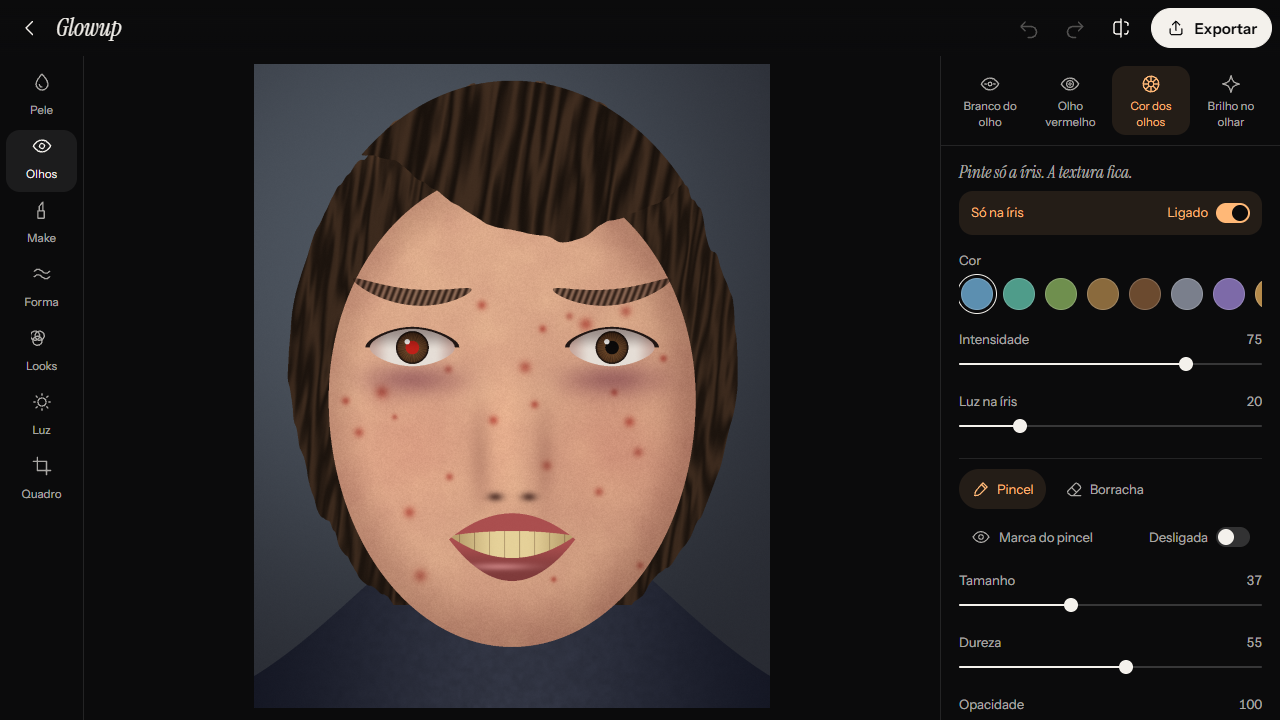
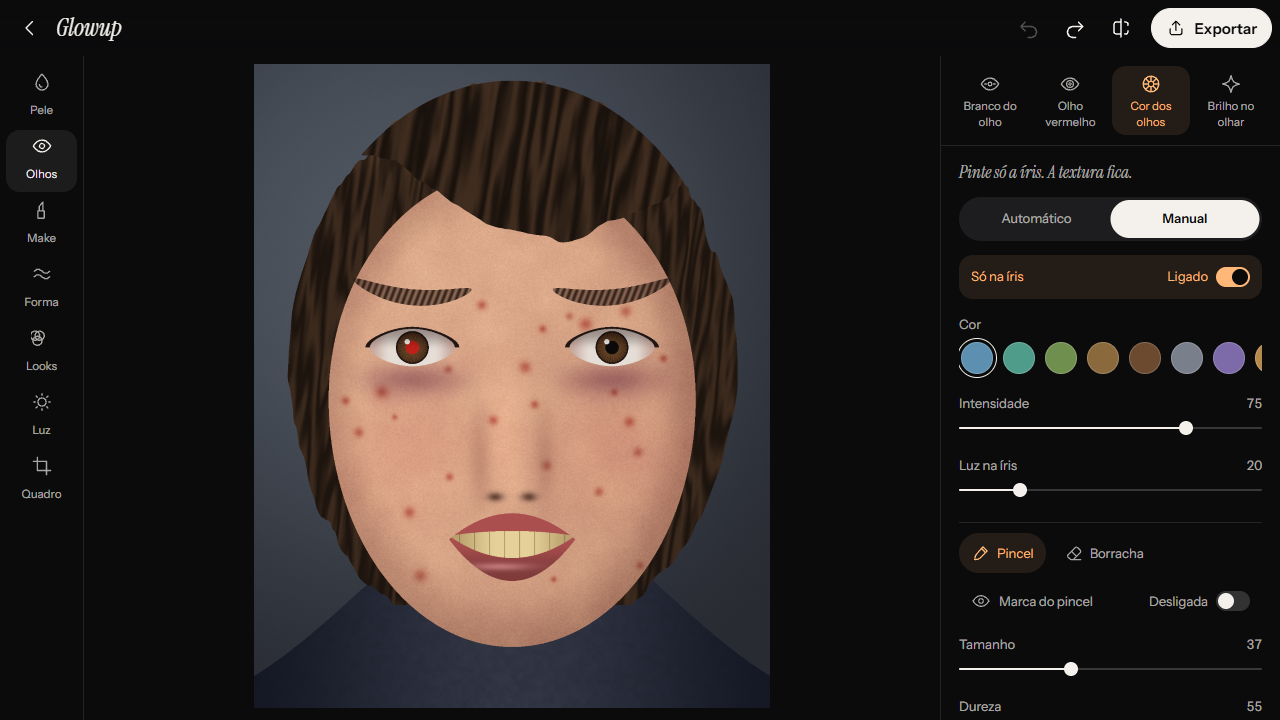
docs: record region focus, reach light and automatic mode
Decisions 64 to 73, design notes, measures and new visual checks for
the flight to the eyes or mouth, the light over the brush reach and
the automatic and manual modes. Panel screenshots of eye and teeth
tools now show the mode selector.

diff --git a/docs/DECISIONS.md b/docs/DECISIONS.md
@@ -106,3 +106,18 @@ Medido em 9 fotos reais de domínio público, fora do repositório, com 99 rosto
 | 61 | Íris é o círculo dos 4 pontos do modelo, cortado pelo contorno do olho com folga de 12%. Branco do olho é o contorno menos a íris | Certo em 59 de 65 rostos. Erraram 6: dois com a cabeça inclinada, um atrás de óculos com os olhos fechados, os outros olhando para cima ou para baixo. Sem filtro de borda: a pálpebra já corta o círculo. |
 | 62 | Dentes são o contorno interno dos lábios levado 40% rumo ao externo, com a borda puxada pela foto e cortada pelo externo. Abertura abaixo de 5% da largura é boca fechada | O contorno interno sozinho deixou mais de 20% dos dentes de fora em 9 de 45 sorrisos. Com 40% foram 5, em medida aproximada por brilho e cor, e o guided filter tira de volta o que passou para o lábio. As 31 bocas com abertura abaixo de 3% não mostram dentes nas 20 que deu para olhar. Em rosto pequeno de foto antiga, com bigode, o modelo chega a ver boca aberta onde não há dente: a região abre à toa, sem prejuízo, porque o shader deixa o escuro como está. |
 | 63 | Todo caminho sem limite deixa o pincel livre e diz por quê | Sem rosto, sem olhos ou dentes à mostra, download que falha e interruptor desligado. O detector perde perfil, rosto olhando para baixo e rosto pequeno, e isso não pode prender ninguém. "Procurar mais rostos" só aparece depois de um traço cair todo fora. Anel falso em mão ou joelho só abre uma região a mais, sem prejuízo. |
+
+## Foco, brilho e modo automático
+
+| # | Decisão | Motivo |
+| --- | --- | --- |
+| 64 | Quando a região fica pronta, a vista voa até os olhos, ou até a boca em Dentes, em 650 ms | Olho e dente são pequenos na foto inteira, e a pessoa ia dar zoom de qualquer jeito. O voo usa a matemática de `view.ts` sobre os pontos já passados por recorte, giro e liquify, então chega ao lugar certo em foto girada ou deformada. O zoom cresce em ritmo constante e o centro anda junto, para não parecer que a foto escorrega. |
+| 65 | Com vários rostos, a vista mostra todos se isso ainda aproximar 1,6 vez ou mais, ou custar menos de 40% do zoom de um rosto só. Senão vai para o maior rosto | Duas pessoas numa selfie cabem juntas e ficam grandes. Numa foto de grupo, todos os olhos juntos são a foto inteira, e aproximar o maior rosto é o que dá para retocar. Rosto cortado pelo recorte fica de fora da conta. |
+| 66 | O voo nunca briga com a pessoa | Qualquer roda, pinça, arrasto, tecla de zoom ou toque na foto para o voo onde ele está. Se a pessoa mexeu na vista durante a busca, o voo nem começa. Se a região já está na tela com zoom parecido, a vista fica. Com movimento reduzido, a vista salta direto. |
+| 67 | Um brilho frio de 1,1 s mostra os pixels que o pincel alcança, com borda clara e uma faixa que atravessa a tela | Explica para que serve o interruptor sem texto longo. A luz é somada e não misturada, para não parecer cor nova na íris, e é fria para não ser confundida com a marca laranja. Toca na primeira vez que a ferramenta fica pronta na foto e sempre que o interruptor liga. Com movimento reduzido fica só o acender e apagar, sem a faixa. |
+| 68 | O brilho mora só no passo que desenha a tela, lendo a textura do limite | A exportação usa outro shader e nem vê o brilho. Lido na mesma posição deformada da marca do pincel, ele acompanha o liquify. Fora dos 1,1 s o ramo do shader não roda. |
+| 69 | Um aviso "O brilho mostra onde o pincel alcança" fica 2,6 s, mais que o brilho | Tempo de ler a frase. Some se a marca do pincel estiver ligada, para não haver dois avisos no mesmo lugar. |
+| 70 | "Automático \| Manual" no topo do painel. O Automático vem ligado e aplica sozinho, depois do voo e do brilho | Escolha de quem usa, entre aplicar sozinho, esperar um toque em "Aplicar" e manter o Manual como padrão. Aplicar depois de mostrar a região faz a pessoa ver onde a foto mudou. Um seletor de dois lados deixa claro de onde vem a máscara, melhor que um interruptor que só revela o pincel. |
+| 71 | O Automático preenche a máscara da ferramenta com a mesma forma do limite, em uma etapa "Automático" no desfazer | A máscara fica igual a uma pintada à mão: sliders, comparar, exportar, receitas e projeto salvo não mudam, e nenhum ponto do rosto vai para o projeto. No Automático o pincel some e arrastar move a foto. Desfazer ou "Tirar o efeito" deixam "Aplicar de novo". |
+| 72 | Manual parte do que o Automático fez, com pincel, borracha e o interruptor de limite. Voltar ao Automático troca a máscara pela região, também em uma etapa | Refinar o automático com a borracha é o uso mais comum. Trocar a máscara inteira ao voltar é previsível, e o desfazer devolve o trabalho à mão. |
+| 73 | O modo fica guardado por ferramenta enquanto a foto está aberta. Máscara que já tem trabalho, como num projeto reaberto, abre no Manual | O Automático nunca apaga trabalho que a pessoa não viu acontecer. Sem rosto, sem região ou sem detector, o seletor não aparece e o pincel fica, como antes. |

diff --git a/docs/PLAN.md b/docs/PLAN.md
@@ -87,6 +87,13 @@
 - [x] Pincel livre sem rosto, sem região, sem detector ou pelo interruptor
 - [x] Nada do rosto no projeto salvo
 
+## M13. Foco, brilho e modo automático
+
+- [x] Voo animado até os olhos ou a boca, com escolha entre todos os rostos e o maior
+- [x] Voo que cede a qualquer gesto, respeita movimento reduzido, recorte, giro e liquify
+- [x] Brilho sobre o alcance do pincel, fora da exportação e diferente da marca do pincel
+- [x] Automático e Manual, com o automático aplicado numa etapa e a máscara salva como pintada
+
 ## Metas medidas
 
 Foto gerada de 12 MP (4000 x 3000), Chromium com aceleração, em uma placa dedicada (`node scripts/perf.mjs`):
@@ -163,3 +170,19 @@ gzip, e o detector continua fora do precache.
 A cobertura dos dentes usa uma estimativa por brilho e cor, não um contorno feito à mão. Rosto muito virado
 leva o contorno do olho mais distante para fora do lugar. Isto também é teste de fumaça, com poucas fotos e
 poucos tons de pele.
+
+### Foco, brilho e modo automático
+
+SwiftShader no e2e, retrato procedural de 1500 x 1875, tela de 1280 x 800.
+
+| O que foi medido | Resultado |
+| --- | --- |
+| Zoom de chegada, olhos | 1,9 vez, com os dois olhos em 60% da largura livre |
+| Zoom de chegada, Dentes | 4,0 vezes |
+| Foto com dois rostos que ocupam a foto inteira | vai para um rosto, 2,3 vezes |
+| Voo e brilho | 650 ms e 1,1 s, aviso por 2,6 s |
+| JS da primeira visita em gzip | 27,2 KB, eram 27,3 KB |
+| Chunk do editor em gzip | 37,4 KB, eram 34,8 KB |
+
+O brilho custa uma leitura de textura a mais por pixel, só enquanto toca. O detector continua fora do
+precache e só baixa quando uma ferramenta de olhos ou dentes abre.

diff --git a/docs/DESIGN.md b/docs/DESIGN.md
@@ -122,6 +122,18 @@ rostos achados.
   interruptor e "Procurar mais rostos" aparece, para o rosto que a primeira busca deixou de lado.
 - **Nada a limitar.** Sem rosto, sem dentes à mostra ou sem detector, o painel diz o motivo e o pincel fica
   livre.
+- **Foco.** Quando a região fica pronta, a vista voa até os olhos, ou até a boca em Dentes. Dois rostos
+  próximos entram juntos; numa foto de grupo vai o maior. Qualquer gesto na foto para o voo, e quem mexeu na
+  vista durante a busca fica com a vista que escolheu.
+- **Brilho.** Em seguida uma luz fria acende sobre o que o pincel alcança, com borda clara e uma faixa que
+  atravessa a tela, e apaga em pouco mais de um segundo. O aviso "O brilho mostra onde o pincel alcança"
+  fica um pouco mais. A luz é fria para nunca ser confundida com a marca laranja, que é o que se pintou, e
+  não aparece na exportação. Volta a tocar quando o interruptor liga.
+- **Automático e Manual.** Seletor no topo do painel. O Automático vem ligado: depois do brilho, a
+  ferramenta já aplica em todos os olhos ou dentes achados, numa etapa só, e os controles ajustam o efeito.
+  Sem pincel, arrastar move a foto. Manual mostra pincel, borracha e o interruptor, e parte do que o
+  Automático fez. Voltar ao Automático troca o que foi pintado pela região. Projeto reaberto com máscara
+  abre no Manual, para não apagar trabalho.
 
 ## Filtro em um rosto
 

diff --git a/docs/visual-checks/README.md b/docs/visual-checks/README.md
@@ -11,6 +11,10 @@ de propósito manchas, olheiras, olho vermelho e dentes amarelados. Nenhuma pess
 - `21-branco-do-olho.png`, `22-limite-dentes.png`: um traço largo que só muda a região da ferramenta.
 - `ui-limite-*.png`, `ui-celular-limite*.png`: busca com o aviso dos 6 MB, interruptor, traço fora, foto
   em grupo e boca fechada.
+- `ui-regiao-*.png`: a vista que voou até os olhos (`ui-regiao-olhos`), a boca (`ui-regiao-dentes`) e um rosto
+  da foto em grupo (`ui-regiao-grupo`), e o brilho sobre o alcance do pincel (`ui-regiao-brilho`).
+- `ui-auto-olhos.png`, `ui-manual-olhos.png`, `ui-celular-auto.png`: o seletor Automático e Manual, com a cor já
+  aplicada pelo Automático e o pincel de volta no Manual.
 
 Os anéis destas imagens vêm do detector real: o retrato procedural basta para ele. A borda e o pescoço
 foram ajustados em fotos reais de domínio público, que ficaram fora do repositório.

diff --git a/README.md b/README.md
@@ -54,6 +54,11 @@ dentes, em todos os rostos achados, e um interruptor libera o pincel. Se o detec
 boca está fechada ou o download falha, o pincel fica livre. O detector baixa só na primeira vez que
 alguém abre uma dessas ferramentas ou escolhe um rosto, cerca de 6 MB, do próprio site.
 
+Ao abrir uma delas, a foto aproxima dos olhos ou da boca e um brilho rápido mostra onde o pincel alcança.
+No modo Automático, que vem ligado, a ferramenta já aplica em todos os olhos ou dentes achados, numa
+etapa só que dá para desfazer, e os controles ajustam o efeito. No Manual voltam pincel e borracha, a
+partir do que o Automático fez.
+
 Solte a foto em qualquer lugar da tela, inclusive no editor. Abrir e exportar mostram a porcentagem e o
 passo atual, com a própria foto revelando na tela.
 
